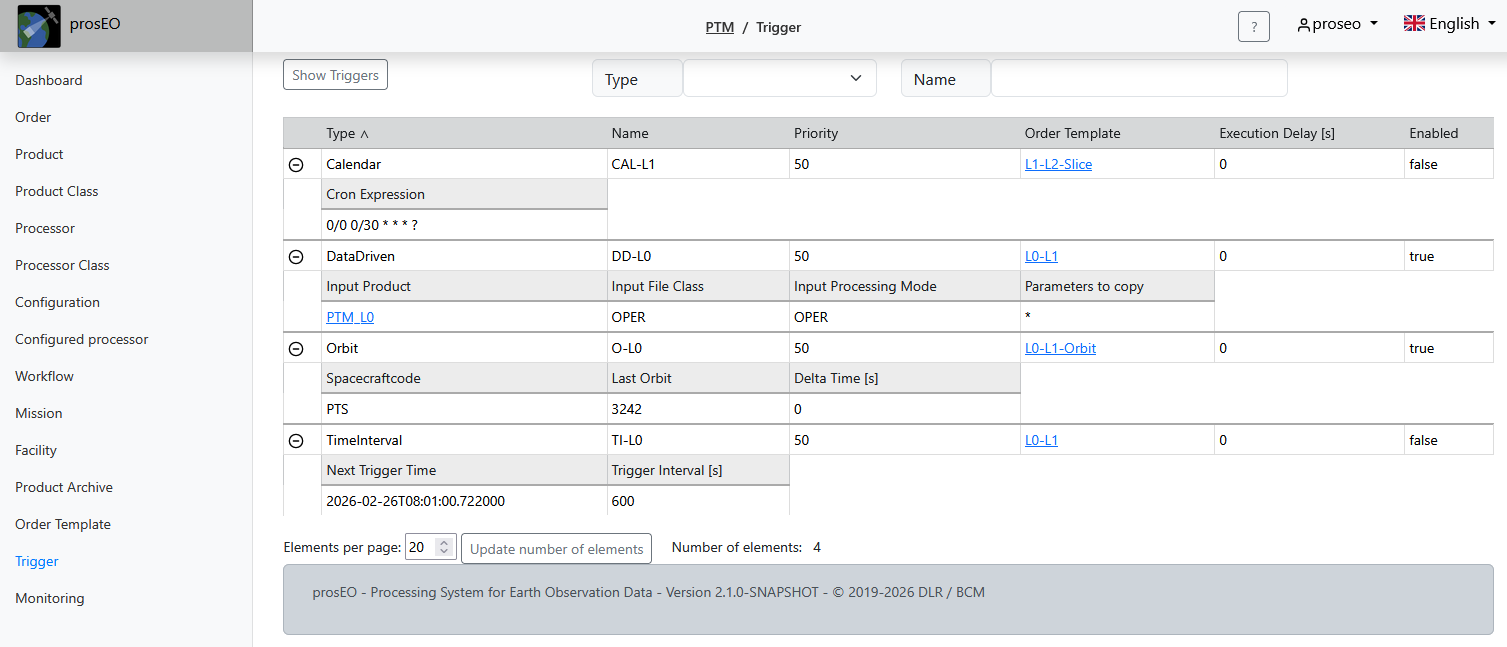
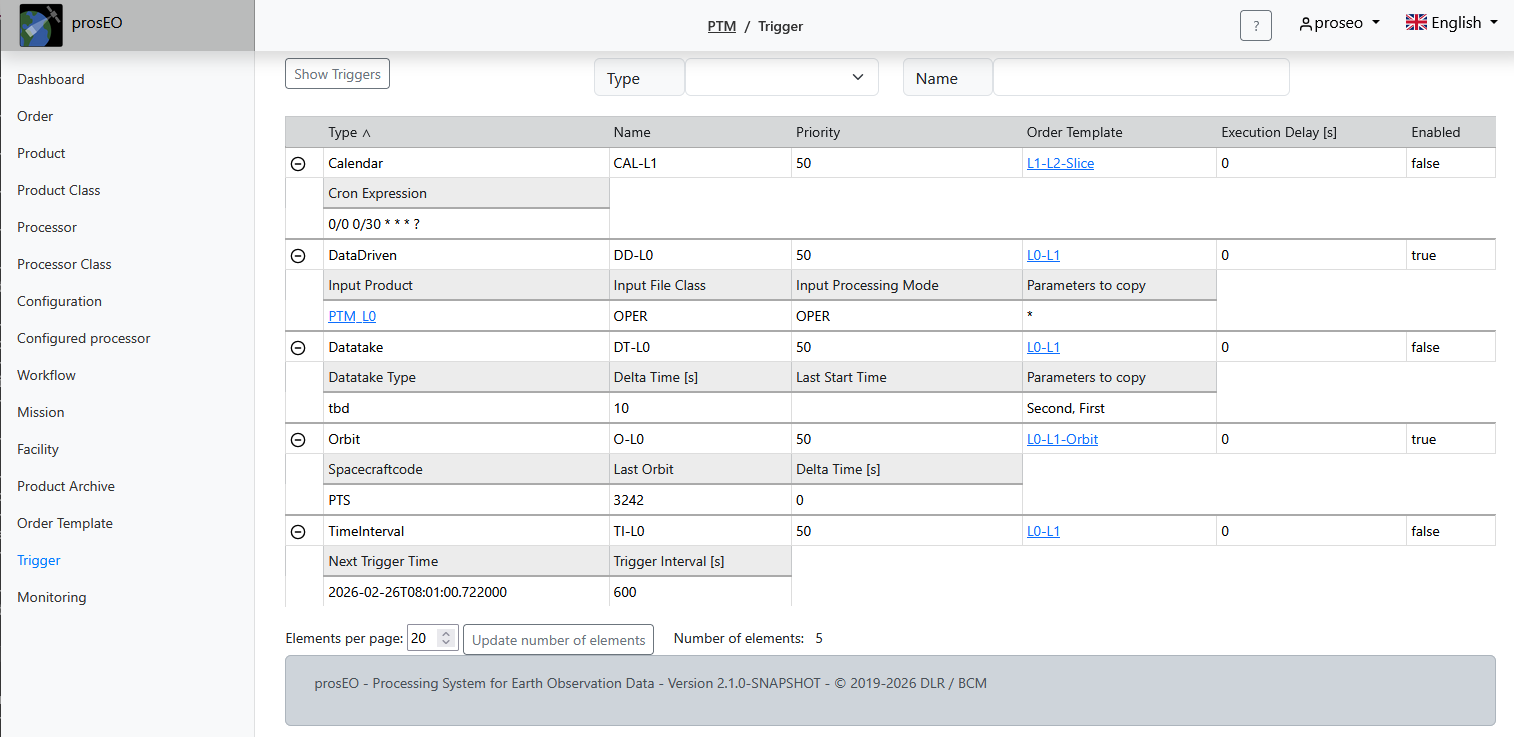
Planner: Fix for dyn proc params. OrderGen: trigger selection.

diff --git a/ui/gui/src/main/resources/templates/trigger-show.html b/ui/gui/src/main/resources/templates/trigger-show.html
@@ -73,7 +73,8 @@
 
 
       <!-- Filter triggers -->
-      <form id="triggerFilters">
+      <form id="triggerFilters" 
+          action="javascript:retrieveDataPrim();">
         <div class="row py-lg-1">
 
           <!-- Submit button -->
@@ -266,21 +267,21 @@
                 class="filtercontent" th:id="'wfcontent' + ${trigger.type} + ${trigger.id}">
                 <tr class="th-row">
                   <th class="tr-rowspan"><span>&nbsp;</span></th>
-                  <th><span th:text="#{parameterstocopy}">parameterstocopy</span></th>
                   <th><span th:text="#{datataketype}">datataketype</span></th>
-                  <th><span th:text="#{lastdatatakestarttime}">lastdatatakestarttime</span></th>
                   <th><span th:text="#{deltatime}">deltatime</span></th>
+                  <th><span th:text="#{lastdatatakestarttime}">lastdatatakestarttime</span></th>
+                  <th><span th:text="#{parameterstocopy}">parameterstocopy</span></th>
                 </tr>
                 <tr class="proseo-row-divider">
                   <td class="tr-rowspan">&nbsp;</td>
+                  <td class="first-row" th:text="${trigger.datatakeType}"> 
+                  <td class="first-row" th:text="${trigger.deltaTime}"> 
+                  <td class="first-row" th:text="${trigger.lastDatatakeStartTime}"> 
                   <td class="first-row">
                     <span th:each="comp : ${trigger.parametersToCopy}"
                       class="proseo-list-item"
                       th:text="' ' + ${comp}"></span>
                   </td>
-                  <td class="first-row" th:text="${trigger.datatakeType}"> 
-                  <td class="first-row" th:text="${trigger.lastDatatakeStartTime}"> 
-                  <td class="first-row" th:text="${trigger.deltaTime}"> 
                 </tr>              
               </tbody>
               
@@ -424,6 +425,7 @@
     }
 
     function retrieveDataPrim(notUsed) {
+        setParams(null, null, null, null);
         updateTablePrim(currentPage);
     }
     

diff --git a/ui/gui/src/main/resources/templates/order-template-show.html b/ui/gui/src/main/resources/templates/order-template-show.html
@@ -74,7 +74,7 @@
 
 			<!-- Filter triggers -->
 			<div th:unless="${errormsg != null}" class="container-fluid">
-				<form id="orderTemplateFilters" class="needs-validation" action="javascript:submit();">
+				<form id="orderTemplateFilters">
 					<div class="row py-lg-1">
 
 						<!-- Submit button -->

diff --git a/planner/src/main/java/de/dlr/proseo/planner/dispatcher/JobDispatcher.java b/planner/src/main/java/de/dlr/proseo/planner/dispatcher/JobDispatcher.java
@@ -133,6 +133,17 @@ public class JobDispatcher {
 					.add((new ProcessingParameter(processingParameter,
 							dynamicProcessingParameters.get(processingParameter).getParameterValue())));
 			}
+			for (String processingParameter : jobStep.getJob().getProcessingOrder().getDynamicProcessingParameters().keySet()) {
+				for (ProcessingParameter pp : configuration.getDynamicProcessingParameters()) {
+					if (pp.getName().equals(processingParameter)) {
+						configuration.getDynamicProcessingParameters().remove(pp);
+						break;
+					}
+				}
+				configuration.getDynamicProcessingParameters()
+				.add((new ProcessingParameter(processingParameter,
+						jobStep.getJob().getProcessingOrder().getDynamicProcessingParameters().get(processingParameter).getParameterValue())));
+			}
 
 			// Set the configuration of the new job order
 			jobOrder.setConf(configuration);
